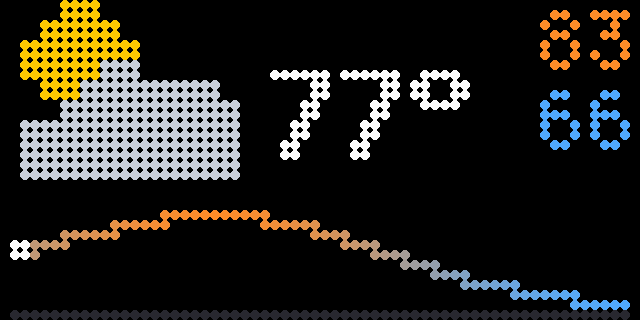
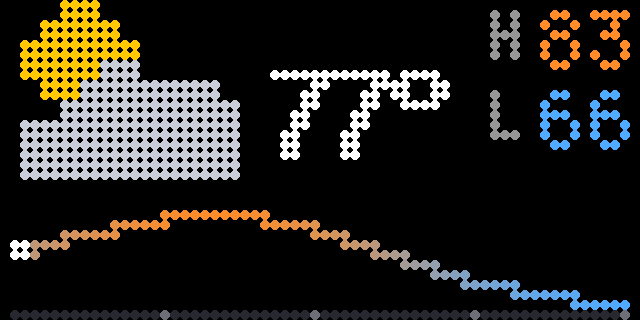
Weather screen: label high/low with H and L, tick every 3 hours
The high and low were two bare colored numbers, and the bottom line had
no scale. A small dim H / L now sits in front of each, and the 12-hour
line gets a tick every 3 hours (a taller one at noon and midnight).

Claude-Session: https://claude.ai/code/session_01CrJip9iJt4GpEiYUED5guG

diff --git a/render.py b/render.py
@@ -509,7 +509,9 @@ class Renderer:
         f = self.fonts
         hi, lo = wx.get("high"), wx.get("low")
         hl = [] if hi is None or lo is None else [f"{round(hi)}", f"{round(lo)}"]
-        right = 64 - (max(f["5x8"].width(t) for t in hl) + 2 if hl else 0)  # high/low column
+        # high/low column: a small dim "H"/"L" in front of each number
+        tag_w = f["4x6"].width("H") + 1
+        right = 64 - (max(f["5x8"].width(t) for t in hl) + tag_w + 2 if hl else 0)
         temp = f"{round(wx['temp'])}°"
         # biggest layout that fits: large icon first, then the clock-size icon;
         # the small unit letter goes last
@@ -534,13 +536,21 @@ class Renderer:
         font.draw(img, x, 16, temp, PRICE)
         if unit_w:
             f["5x8"].draw(img, x + font.width(temp), 9, unit, DIM_TEXT)
-        # today's high (orange) and low (blue), right column
-        for y, t, color in zip((7, 15), hl, (self.HIGH, self.LOW)):
-            f["5x8"].draw(img, 64 - f["5x8"].width(t), y, t, color)
-        # next 12 hours: a line chart under everything
+        # today's high (orange) and low (blue), right column, labeled H and L
+        for y, t, color, letter in zip((7, 15), hl, (self.HIGH, self.LOW), ("H", "L")):
+            x_num = 64 - f["5x8"].width(t)
+            f["5x8"].draw(img, x_num, y, t, color)
+            f["4x6"].draw(img, x_num - tag_w, y - 1, letter, DIM_TEXT)
+        # next 12 hours: a line chart under everything, with a tick every 3 hours
         pts = wx.get("hourly") or []
         if len(pts) >= 2:
             self._temp_line(img, pts, (1, 21, 62, 31))
+            hours = len(pts) - 1
+            px = img.load()
+            for h in range(3, hours + 1, 3):
+                x_tick = 1 + round(h / hours * 61)
+                px[x_tick, 31] = (110, 110, 120)
+                px[x_tick, 30] = (110, 110, 120) if (now.hour + h) % 12 == 0 else px[x_tick, 30]
         return self._place(img)
 
     def _temp_line(self, img, pts, box):
